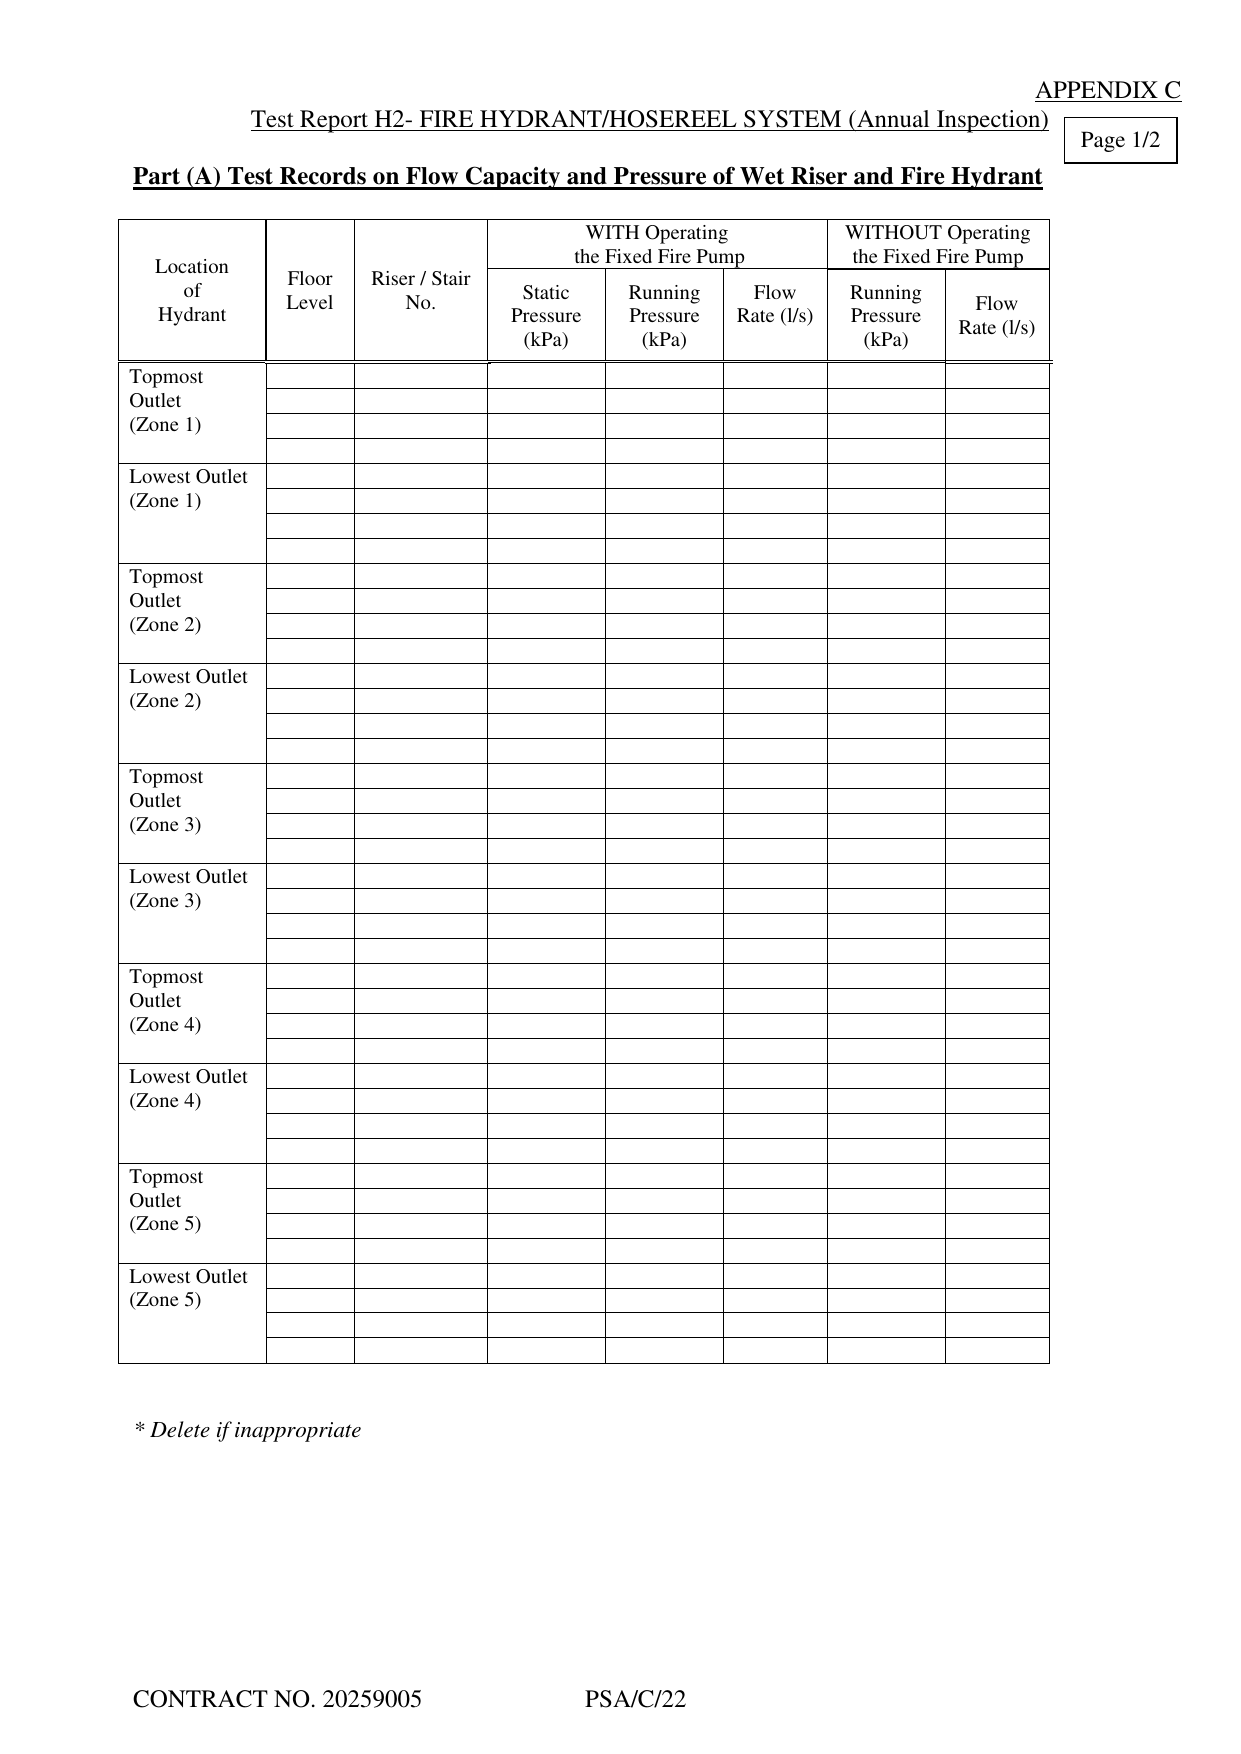
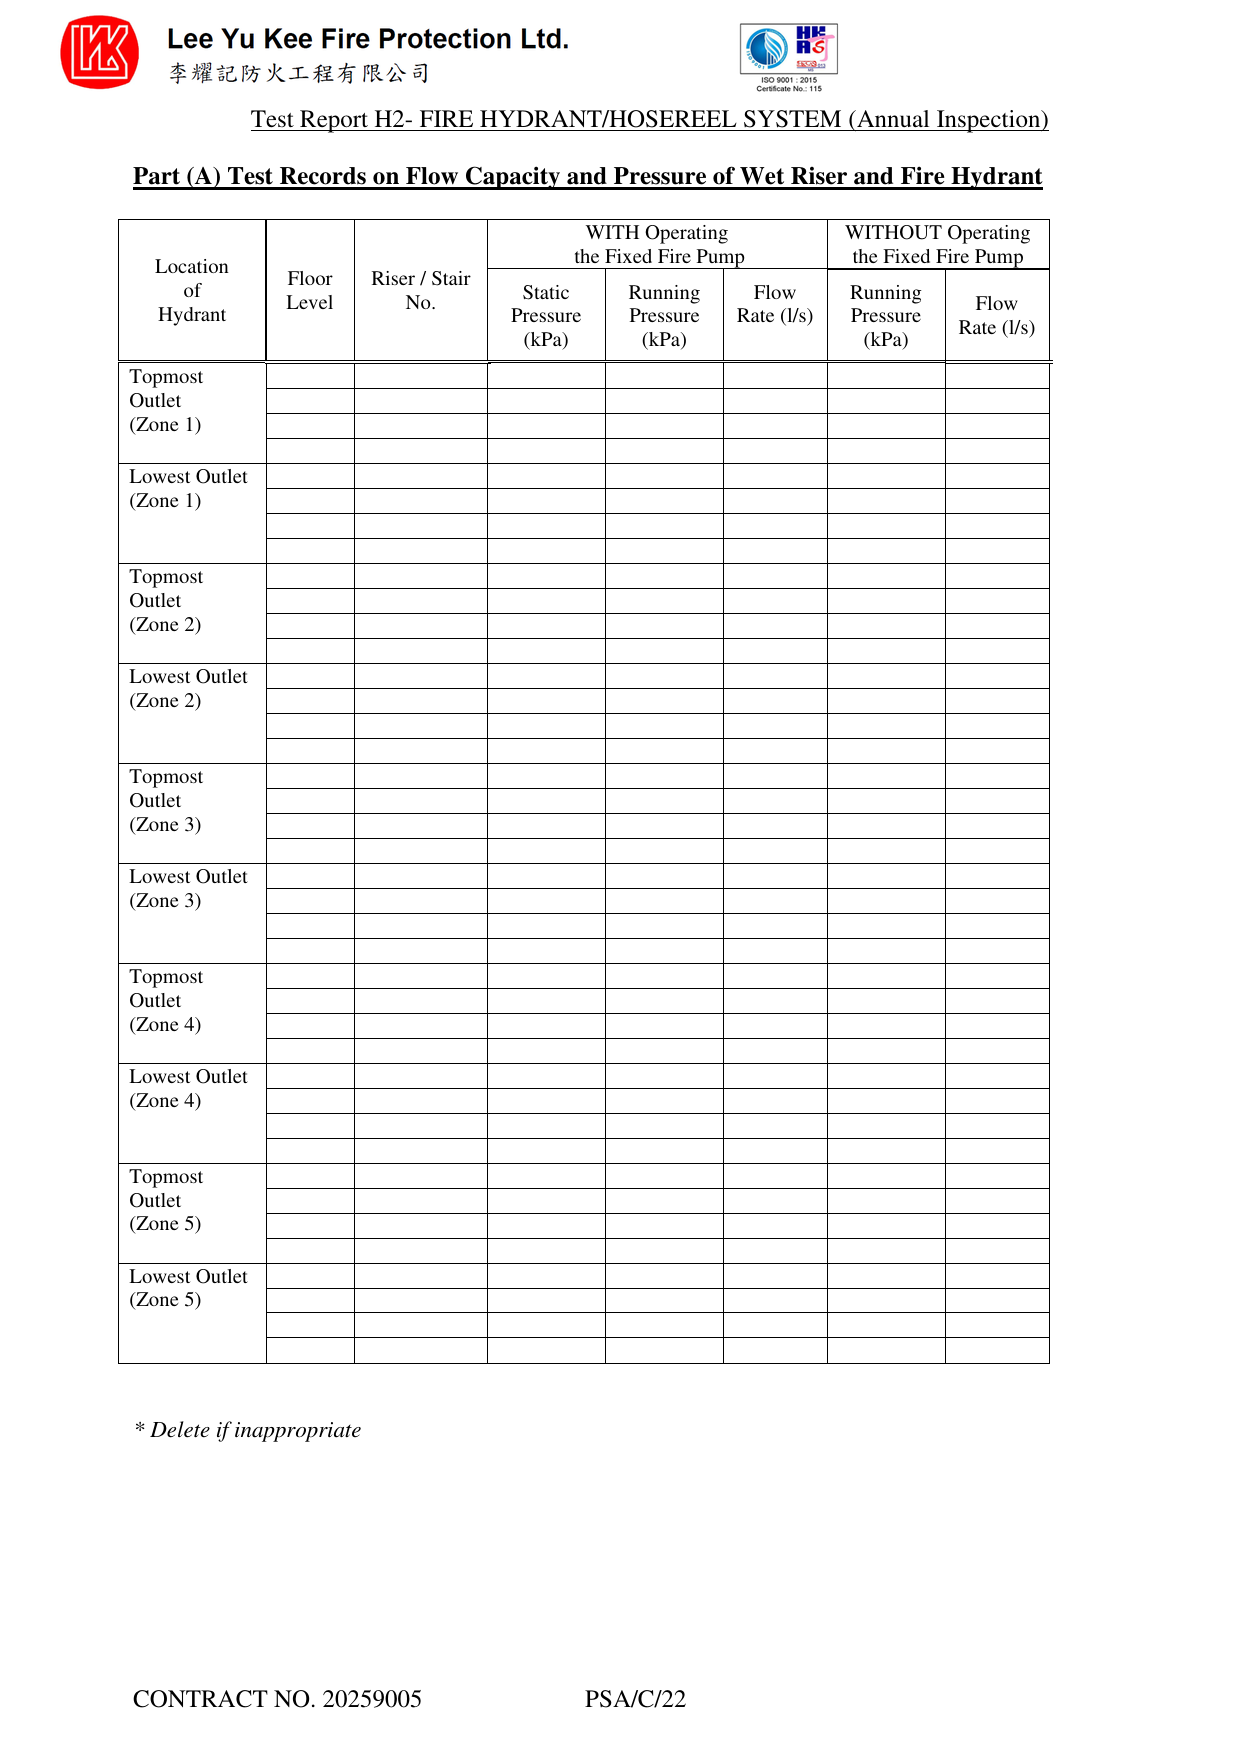
Publish KitShun app 0.6.473 (2026-11-03 22:11 HKT)

Changed region(s): [[0.0306, 0.0, 0.4593, 0.0616], [0.8268, 0.0308, 0.9492, 0.0924], [0.5818, 0.0, 0.6737, 0.0616]]

diff --git a/index.html b/index.html
@@ -691,14 +691,14 @@ main.liveopen .livepane .halive{margin-top:0;border-top:0;padding-top:0}
    草稿存喺手機（localStorage + IndexedDB）；提交 = 直接上傳去公司自己部署嘅 Google Apps Script（v0.4.0），App 入面冇任何 token。
    讀數由師傅輸入；數目欄可設 ndef 預設（例如 CL-J k＝24），其餘唔自動產生數值。 */
 let DATA = { contract: '', questionnaire: [], forms: {}, estates: [], fsd: [], extinguishers: null, source: '' }; /* v0.6.15「鎖」：App 資料唔再內置喺網頁；已批准手機由伺服器下載（app_19data.js → appDataApply） */
-const APP_VERSION = '0.6.472';
+const APP_VERSION = '0.6.473';
 /* v0.6.444：fds 表一（PDF 第19頁）行內容 base Y 按表分開（FDS ≈FA+23–24pt；443 只修咗地址／大廈名） */
 /* v0.6.443：fds 表一（PDF 第19頁＝maps page18）大廈名稱／地址 overlay Y 跟 blank 橫線（唔共用 FA 96／114） */
 /* v0.6.442：fds tickmaps 附錄I AI.h／i／j 校正（maps page19＝PDF p20；h 原缺 hit、maps 下移一行＋j synth 鬼位） */
 /* v0.6.441：fds tickmaps §8.a／b／c 校正（PDF 第18頁＝maps page17；7.7.k 搬走後 8.a 無 hit；maps 各下移一行＋8.c synth 鬼位） */
 /* v0.6.440：fds tickmaps 7.7.i／j／k 校正（PDF 第17頁＝maps page16；i 原錯落喺 j、j→k、k 錯頁到 §8） */
 /* v0.6.470：TR-H2 預設 0 全清（blank not 0）；Riser 1／2 唔預填（blank PNG＋sticky C 清） */
-/* v0.6.472：Zone 梯→H2-1／G2-1 C Riser／Stair No.（清 sticky 1／2；valuemap C）；v0.6.471：Zone 由（樓）→ top outlet floor；至（樓）→ low outlet floor（全部 Zone） */
+/* v0.6.473：H2 tender 頂加返 LYK logo；兩頁拎走 APPENDIX C／Page 1／2／2／2；v0.6.472：Zone 梯→H2-1／G2-1 C Riser／Stair No.（清 sticky 1／2；valuemap C）；v0.6.471：Zone 由（樓）→ top outlet floor；至（樓）→ low outlet floor（全部 Zone） */
 /* v0.6.469：TR-H2／H2-1／H2-2 live＋export 改用標書 PSA/C/22–23 blank＋valuemap overlay（Part A／B；唔再用 LYK Excel 版面） */
 /* v0.6.468：Q_HARD_CL H1|b1／b2／c←FH_HOSE「有冇消防喉轆？」（有＝✓、冇＝NA、未答空白；t1170u） */ /* v0.6.467：T6 下加「有冇龍頭」FS_HYDRANT（t1169u；dep T6＝有；qGlueUnder T6；無新 CL map） */ /* v0.6.463：T6 有冇消防龍頭泵＝有 → 開／顯示頂頭消防處·栓轆（F6∥T6；live gate）（t1162u） */
 /* v0.6.462：TR-C2 Earth loop 兩位小數＋Pass 空白→0.18–0.29 隨機（t1163u／t1165u；原 462＝0.18–0.29） */
@@ -4911,6 +4911,7 @@ function xBorder(ctx, b, x1, y1, x2, y2) {
 async function xImg(src) { return new Promise(res => { const im = new Image(); im.onload = () => res(im); im.onerror = () => res(null); im.src = src; }); }
 const XIMG = {};
 /* v0.6.469：TR-H2 跟標書 PSA/C/22–23 空白頁＋數值 overlay（唔再用 LYK Excel 版面） */
+/* v0.6.473：blank PNG 頂加返 LYK letterhead；H2-1／H2-2 拎走 APPENDIX C＋Page 1/2／2/2 */
 let _H2VM = null, _H2VM_P = null, _H2BLANK = {};
 async function xH2Valuemap() {
   if (_H2VM) return _H2VM;

diff --git a/sw.js b/sw.js
@@ -1,5 +1,5 @@
 // 離線快取（network-first，冇網用快取；v0.5.6：同源 GET 用 cache:'no-cache'）
-const C='fsapp20259005-v0.6.472-h2-stair-to-riser-col';
+const C='fsapp20259005-v0.6.473-h2-lyk-header-no-cpage';
 self.addEventListener('install',e=>{e.waitUntil(caches.open(C).then(c=>c.addAll(['./','./index.html','./manifest.webmanifest','./icon-192.png','./icon-512.png','./ss_items.json']).then(()=>c.addAll(['./pdfjs/pdf.min.js','./pdfjs/pdf.worker.min.js']).catch(()=>{}).then(()=>c.addAll(['./fsd_blank/tickmaps.json','./fsd_blank/fds.pdf','./fsd_blank/fa.pdf','./fsd_blank/fhhr.pdf','./fsd_blank/tank.pdf','./fsd_blank/ws.pdf','./fsd_blank/spr.pdf']).catch(()=>{})))/* v0.6.14 PDF 檢視器（冇都唔影響安裝） */));self.skipWaiting();});
 self.addEventListener('activate',e=>{e.waitUntil(caches.keys().then(ks=>Promise.all(ks.filter(k=>k!==C).map(k=>caches.delete(k)))).then(()=>self.clients.claim()));});
 self.addEventListener('fetch',e=>{if(e.request.method!=='GET')return;if(/(^|\.)(script\.google\.com|googleusercontent\.com)$/.test(new URL(e.request.url).hostname))return;/* v0.6.15：公司伺服器（App 資料等）一律唔入快取 */const same=new URL(e.request.url).origin===self.location.origin;/* 同源：一定問返伺服器（唔用瀏覽器 HTTP 快取舊版） */e.respondWith((same?fetch(e.request.url,{cache:'no-cache',credentials:'same-origin'}):fetch(e.request)).then(r=>{const cp=r.clone();caches.open(C).then(c=>c.put(e.request,cp));return r;}).catch(()=>caches.match(e.request,{ignoreSearch:true})));});
